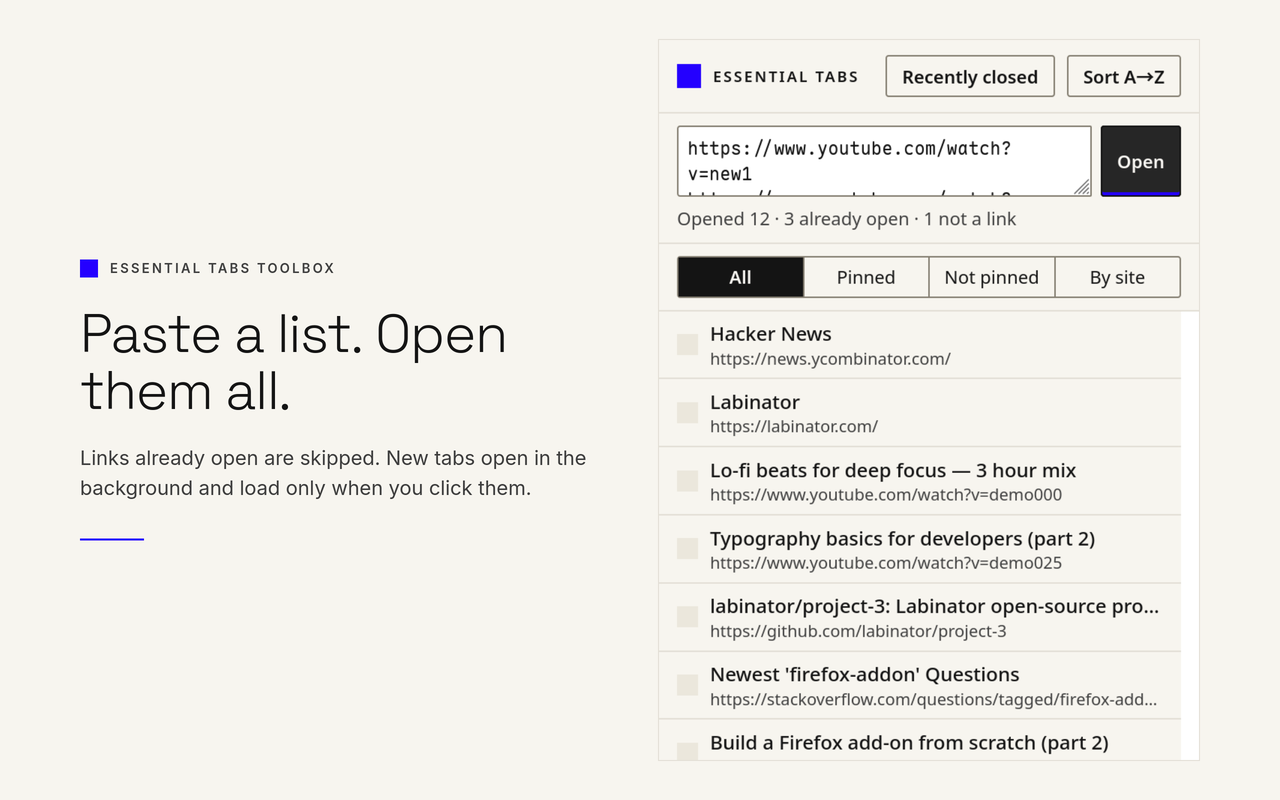
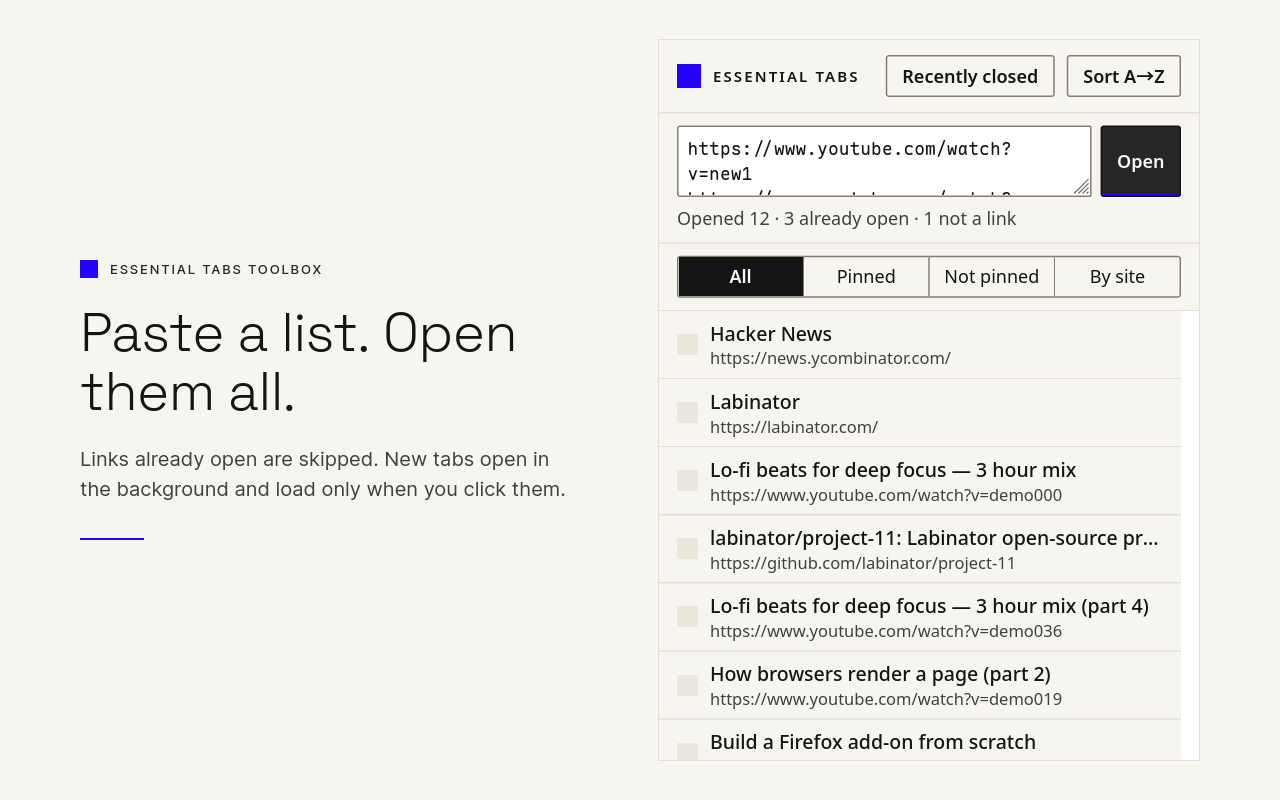
release: 1.1.0 — Auto-close duplicates label, store text, regenerated screenshots

diff --git a/amo/make-screenshots.js b/amo/make-screenshots.js
@@ -1,0 +1,234 @@
+// Regenerates amo/screenshots/*.png (1280×800): the real popup, fed demo tabs through a stand-in
+// `browser` object, next to a headline. Run: bun amo/make-screenshots.js
+// Needs Firefox and the Space Grotesk and Inter fonts installed.
+import { writeFileSync } from 'node:fs';
+import { join } from 'node:path';
+import { launchFirefox, ROOT, waitFor } from '../tests/firefox/harness.js';
+
+const OUT = join(ROOT, 'amo', 'screenshots');
+
+/** One entry per screenshot. `setup` runs inside the page; `doc` is the popup's document. */
+const SCENES = [
+  {
+    file: '1-by-site',
+    title: 'Copy every tab from one site.',
+    text: 'By site groups your window by website. One click copies all 48 YouTube tabs, clean of tracking parameters.',
+    settings: { lastFilter: 'bySite', autoCloseDuplicates: true },
+    setup: '',
+  },
+  {
+    file: '2-copy-site',
+    title: 'One site. One click.',
+    text: 'Open a site to see its tabs, then copy them as a plain list of links, one per line.',
+    settings: { lastFilter: 'bySite' },
+    setup: `doc.querySelector('.site[data-site="youtube.com"] .site-name').click();`,
+  },
+  {
+    file: '3-paste-links',
+    title: 'Paste a list. Open them all.',
+    text: 'Links already open are skipped. New tabs open in the background and load only when you click them.',
+    settings: {},
+    setup: `
+      const box = doc.querySelector('#links');
+      const pasted = [
+        ...Array.from({ length: 12 }, (_, i) => 'https://www.youtube.com/watch?v=new' + (i + 1)),
+        'https://www.youtube.com/watch?v=demo000', 'https://labinator.com/', 'https://news.ycombinator.com/',
+        'tomorrow',
+      ].join('\\n');
+      box.value = pasted;
+      doc.querySelector('#open').click();
+      await new Promise((r) => setTimeout(r, 300));
+      box.value = pasted;
+      hover(doc.querySelector('#open'), 'var(--ink-soft)');`,
+  },
+  {
+    file: '4-recently-closed',
+    title: 'Bring back what you closed.',
+    text: "Firefox's recently closed tabs, one click away, restored with their history.",
+    settings: { autoCloseDuplicates: true },
+    setup: `doc.querySelector('#closed').click(); hover(doc.querySelector('#closed'), 'var(--paper-deep)');`,
+  },
+  {
+    file: '5-sort',
+    title: 'Sort A→Z. Groups stay put.',
+    text: 'Sorts your tabs by address. Pinned tabs and tab groups keep their place; tabs inside a group are sorted among themselves.',
+    settings: { lastFilter: 'notPinned' },
+    sorted: true,
+    setup: `hover(doc.querySelector('#sort'), 'var(--paper-deep)');`,
+  },
+  {
+    file: '6-duplicates',
+    title: 'Find duplicates. Close them.',
+    text: 'See the copies you already have open, in this window or all windows, and close them in one click. YouTube videos match by video.',
+    settings: {},
+    setup: `doc.querySelector('#dups').click();`,
+  },
+];
+
+/** The stand-in `browser` object, loaded by the popup before its own script. */
+const MOCK = `
+import { compareUrls } from '/src/lib/rules.js';
+const scene = parent.SCENE;
+const listen = { addListener() {} };
+const tabs = [];
+let nextId = 1;
+const add = (title, url, extra = {}) =>
+  tabs.push({ id: nextId++, windowId: 1, title, url, pinned: false, groupId: -1, incognito: false,
+    cookieStoreId: 'firefox-default', active: false, ...extra });
+
+add('Hacker News', 'https://news.ycombinator.com/', { pinned: true, active: true });
+add('Labinator', 'https://labinator.com/', { pinned: true });
+const videos = ['Lo-fi beats for deep focus — 3 hour mix', 'Typography basics for developers',
+  'Build a Firefox add-on from scratch', 'The history of the hyperlink', 'Classical guitar for focus',
+  'CSS Grid in 20 minutes', 'Forest birdsong at dawn', 'How browsers render a page',
+  'Ambient piano for reading', 'Keyboard shortcuts you should know', 'A tour of tab groups',
+  'Rain on a tin roof — 2 hours'];
+const name = (i) => videos[i % 12] + (i >= 12 ? ' (part ' + (Math.floor(i / 12) + 1) + ')' : '');
+const loose = [];
+for (let i = 0; i < 43; i++) {
+  loose.push([name(i), 'https://www.youtube.com/watch?v=demo' + String(i).padStart(3, '0')]);
+}
+for (let i = 0; i < 14; i++) {
+  loose.push(['labinator/project-' + (i + 1) + ': Labinator open-source project', 'https://github.com/labinator/project-' + (i + 1)]);
+}
+for (const [t, p] of [['Array.prototype.sort()', 'JavaScript/Reference/Global_Objects/Array/sort'],
+  ['CSS grid-template', 'CSS/grid-template'], ['MutationObserver', 'API/MutationObserver'],
+  ['sessions.restore()', 'Mozilla/Add-ons/WebExtensions/API/sessions/restore'],
+  ['tabGroups', 'Mozilla/Add-ons/WebExtensions/API/tabGroups'],
+  ['tabs.query()', 'Mozilla/Add-ons/WebExtensions/API/tabs/query'], ['URLSearchParams', 'API/URLSearchParams'],
+  ['Clipboard API', 'API/Clipboard_API'], ['tabs.move()', 'Mozilla/Add-ons/WebExtensions/API/tabs/move']]) {
+  loose.push([t + ' - MDN Web Docs', 'https://developer.mozilla.org/en-US/docs/Web/' + p]);
+}
+loose.push(['Hyperlink - Wikipedia', 'https://en.wikipedia.org/wiki/Hyperlink']);
+loose.push(['Tab (interface) - Wikipedia', 'https://en.wikipedia.org/wiki/Tab_(interface)']);
+loose.push(["Newest 'firefox-addon' Questions", 'https://stackoverflow.com/questions/tagged/firefox-addon']);
+loose.push(['BBC News - Home', 'https://www.bbc.com/news']);
+// A fixed shuffle, so the list looks like a real window and every run gives the same picture.
+loose.map((row, i) => [(i * 37) % loose.length, row]).sort((a, b) => a[0] - b[0]).forEach(([, r]) => add(r[0], r[1]));
+// Five videos opened a second time: same video, different link.
+for (const [i, url] of [[0, 'https://www.youtube.com/watch?v=demo000&t=95s'], [2, 'https://www.youtube.com/watch?v=demo002&t=41s'],
+  [5, 'https://www.youtube.com/watch?v=demo005&list=PLfocus'], [8, 'https://www.youtube.com/watch?v=demo008&t=12m4s'],
+  [3, 'https://www.youtube.com/watch?v=demo003&t=30s']]) {
+  tabs.splice(8 + i * 9, 0, { ...tabs.find((t) => t.url.endsWith('demo00' + i)), id: nextId++, url });
+}
+if (scene.sorted) {
+  const pinned = tabs.filter((t) => t.pinned);
+  const rest = tabs.filter((t) => !t.pinned).sort((a, b) => compareUrls(a.url, b.url));
+  tabs.splice(0, tabs.length, ...pinned, ...rest);
+}
+const reindex = () => tabs.forEach((t, i) => { t.index = i; });
+reindex();
+
+const closed = [['Clipboard API - MDN Web Docs', 'https://developer.mozilla.org/en-US/docs/Web/API/Clipboard_API'],
+  ['Hyperlink - Wikipedia', 'https://en.wikipedia.org/wiki/Hyperlink'], ['BBC News - Home', 'https://www.bbc.com/news'],
+  ['tabs.move() - MDN Web Docs', 'https://developer.mozilla.org/en-US/docs/Mozilla/Add-ons/WebExtensions/API/tabs/move'],
+  ['Tab (interface) - Wikipedia', 'https://en.wikipedia.org/wiki/Tab_(interface)'],
+  ["Newest 'firefox-addon' Questions", 'https://stackoverflow.com/questions/tagged/firefox-addon']];
+const stored = { ...scene.settings };
+
+window.browser = {
+  tabs: {
+    query: async (q) => tabs.filter((t) => (q.active === undefined || t.active === q.active)).map((t) => ({ ...t })),
+    create: async (t) => { add(t.title, t.url); reindex(); },
+    remove: async () => {}, move: async () => {}, ungroup: async () => {}, update: async (id) => ({ id, windowId: 1 }),
+    onCreated: listen, onRemoved: listen, onMoved: listen, onAttached: listen, onDetached: listen, onUpdated: listen,
+  },
+  windows: { WINDOW_ID_CURRENT: -2, getCurrent: async () => ({ id: 1 }), update: async () => {} },
+  sessions: {
+    onChanged: listen,
+    getRecentlyClosed: async () => closed.map(([title, url], i) => ({ tab: { sessionId: 's' + i, title, url } })),
+    restore: async () => {},
+  },
+  storage: { local: { get: async (defaults) => ({ ...defaults, ...stored }), set: async (v) => { Object.assign(stored, v); } } },
+};
+`;
+
+const page = scene => `<!doctype html>
+<meta charset="utf-8">
+<style>
+  html, body { margin: 0; }
+  body { width: 1280px; height: 800px; overflow: hidden; background: #f7f5ef; position: relative; color: #141414; }
+  .copy { position: absolute; left: 80px; top: 0; height: 800px; width: 520px; display: flex; flex-direction: column;
+    justify-content: center; }
+  .label { display: flex; align-items: center; gap: 12px; font: 500 13px Inter, sans-serif; letter-spacing: 0.14em;
+    text-transform: uppercase; color: #262626; }
+  .label::before { content: ""; width: 18px; height: 18px; background: #2400ff; }
+  h1 { margin: 26px 0 0; font: 300 54px / 1.08 "Space Grotesk", sans-serif; letter-spacing: -0.01em; }
+  p { margin: 24px 0 0; max-width: 500px; font: 400 20px / 30px Inter, sans-serif; color: #404040; }
+  .rule { margin-top: 34px; width: 64px; height: 2px; background: #2400ff; }
+  .shot { position: absolute; left: 658px; top: 50%; transform: translateY(-50%); width: 540px; max-height: 720px;
+    overflow: hidden; border: 1px solid #e3dfd6; }
+  iframe { display: block; border: 0; width: 360px; transform: scale(1.5); transform-origin: 0 0; }
+</style>
+<div class="copy">
+  <div class="label">Essential Tabs Toolbox</div>
+  <h1>${scene.title}</h1>
+  <p>${scene.text}</p>
+  <div class="rule"></div>
+</div>
+<div class="shot"><iframe src="/src/popup/popup.html"></iframe></div>
+<script>
+  window.SCENE = ${JSON.stringify({ settings: scene.settings, sorted: Boolean(scene.sorted) })};
+  const hover = (el, bg) => { el.style.background = bg; el.style.boxShadow = 'inset 0 -2px 0 var(--primary)'; };
+  const frame = document.querySelector('iframe');
+  frame.addEventListener('load', async () => {
+    const doc = frame.contentDocument;
+    while (!doc.body.dataset.renderedMs) await new Promise((r) => setTimeout(r, 50));
+    ${scene.setup}
+    await new Promise((r) => setTimeout(r, 400));
+    doc.activeElement?.blur();
+    const h = doc.body.getBoundingClientRect().height;
+    frame.style.height = h + 'px';
+    frame.parentElement.style.height = Math.min(720, Math.round(h * 1.5)) + 'px';
+    document.body.dataset.ready = '1';
+  });
+</script>`;
+
+const server = Bun.serve({
+  port: 0,
+  hostname: '127.0.0.1',
+  async fetch(req) {
+    const url = new URL(req.url);
+    if (url.pathname === '/shot') {
+      return new Response(page(SCENES[Number(url.searchParams.get('n'))]), {
+        headers: { 'content-type': 'text/html; charset=utf-8' },
+      });
+    }
+    if (url.pathname === '/mock.js') {
+      return new Response(MOCK, { headers: { 'content-type': 'text/javascript' } });
+    }
+    if (url.pathname === '/src/popup/popup.html') {
+      const html = await Bun.file(join(ROOT, 'src/popup/popup.html')).text();
+      return new Response(
+        html.replace('<script', '<script type="module" src="/mock.js"></script>\n  <script'),
+        {
+          headers: { 'content-type': 'text/html; charset=utf-8' },
+        },
+      );
+    }
+    if (url.pathname.startsWith('/src/') && !url.pathname.includes('..')) {
+      return new Response(Bun.file(join(ROOT, url.pathname)));
+    }
+    return new Response('not found', { status: 404 });
+  },
+});
+
+const ff = await launchFirefox();
+try {
+  for (const [n, scene] of SCENES.entries()) {
+    const tab = await ff.openTab(`http://127.0.0.1:${server.port}/shot?n=${n}`);
+    await waitFor(() => ff.evaluate(tab, `document.body.dataset.ready ?? null`), {
+      label: `${scene.file} ready`,
+    });
+    const shot = await ff.send('browsingContext.captureScreenshot', {
+      context: tab,
+      origin: 'document',
+      clip: { type: 'box', x: 0, y: 0, width: 1280, height: 800 },
+    });
+    writeFileSync(join(OUT, `${scene.file}.png`), Buffer.from(shot.data, 'base64'));
+    console.log(`${scene.file}.png`);
+  }
+} finally {
+  await ff.close();
+  server.stop(true);
+}

diff --git a/src/popup/popup.html b/src/popup/popup.html
@@ -45,7 +45,7 @@
 
   <footer class="ft">
     <button id="dup-switch" class="switch" type="button" role="switch" aria-checked="false">
-      <span class="track" aria-hidden="true"></span>Close duplicates
+      <span class="track" aria-hidden="true"></span>Auto-close duplicates
     </button>
     <button id="dups" class="btn btn-outline" type="button">Duplicates</button>
     <button id="dup-close" class="btn" type="button" hidden>Close</button>

diff --git a/README.md b/README.md
@@ -12,7 +12,7 @@ A Firefox add-on by [Labinator](https://labinator.com/) for fast tab housekeepin
   everything else in the link.
 - **Sort A→Z** sorts the window's non-pinned tabs by URL. Tab groups stay where they are; the tabs inside each group
   are sorted among themselves.
-- **Close duplicates** (off by default). When you open a page that is already open, the older copy closes and the
+- **Auto-close duplicates** (off by default). When you open a page that is already open, the older copy closes and the
   tab in front of you stays. The tab you are looking at in any window, and pinned, playing,
   camera/microphone/screen-sharing and grouped tabs, are never closed.
   YouTube videos match by video, whatever the timestamp or playlist.
@@ -54,7 +54,7 @@ Requires [Bun](https://bun.sh/) and Firefox 159+.
 ```bash
 bun install
 bun run test     # Biome, rumdl, tsc --checkJs, unit tests, web-ext lint, real-Firefox tests
-bun run build    # web-ext-artifacts/essential_tabs_toolbox-1.0.0.zip
+bun run build    # web-ext-artifacts/essential_tabs_toolbox-1.1.0.zip
 ```
 
 The real-Firefox tests drive your installed Firefox headless over WebDriver BiDi (`tests/firefox/harness.js`).

diff --git a/amo/LISTING.md b/amo/LISTING.md
@@ -1,4 +1,4 @@
-# AMO listing — Essential Tabs Toolbox 1.0.0
+# AMO listing — Essential Tabs Toolbox 1.1.0
 
 Paste-ready text for each AMO field is in this folder. Upload the zip from `web-ext-artifacts/`.
 
@@ -28,6 +28,7 @@ Paste-ready text for each AMO field is in this folder. Upload the zip from `web-
 | `screenshots/3-paste-links.png` | Paste a list of links. Links already open are skipped. |
 | `screenshots/4-recently-closed.png` | Recently closed tabs, one click to restore. |
 | `screenshots/5-sort.png` | Sort A→Z. Pinned tabs and tab groups keep their place. |
+| `screenshots/6-duplicates.png` | Duplicates: see the copies you already have open and close them in one click. |
 
-The screenshots show the real popup with demo tabs. They were generated in Firefox 159 by a script that is not part
-of the repository.
+The screenshots show the real popup with demo tabs. Regenerate them with `bun amo/make-screenshots.js` (headless
+Firefox; needs the Space Grotesk and Inter fonts installed).

diff --git a/CHANGELOG.md b/CHANGELOG.md
@@ -4,13 +4,18 @@ All notable changes to Essential Tabs Toolbox are documented here.
 
 This project adheres to [Semantic Versioning](https://semver.org/spec/v2.0.0.html).
 
-## [Unreleased]
+## [1.1.0] - 2026-11-20
 
 ### Added
 
 - Duplicates view: the footer button counts the duplicate tabs already open; the view lists the copies that would
   close, in this window or all windows, and closes them in one click. Protected copies stay; otherwise the oldest
   copy of each page stays.
+
+### Changed
+
+- The footer switch is now labeled "Auto-close duplicates" (was "Close duplicates"), to tell it apart from the
+  on-demand Duplicates view.
 
 ## [1.0.0] - 2026-11-06
 
